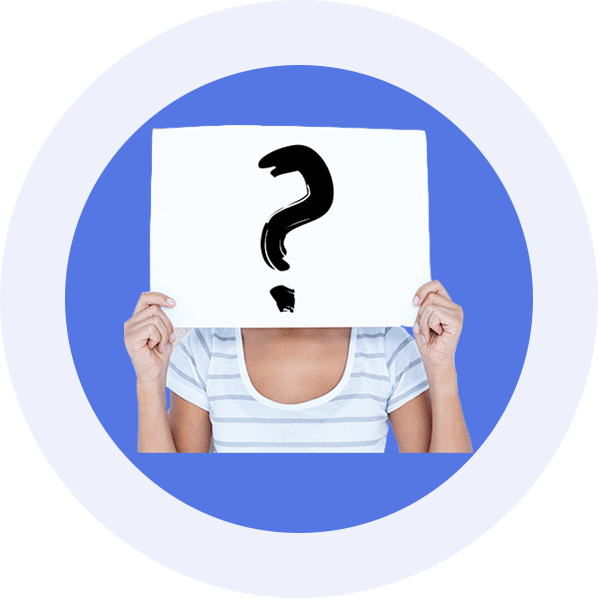
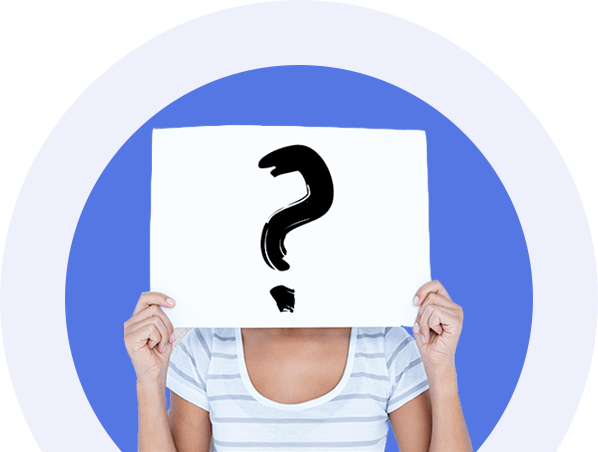
Response is done

diff --git a/css/styles.css b/css/styles.css
@@ -229,7 +229,7 @@
 
 #main_pic {
 	right: -20px;
-	bottom: -214px;
+	bottom: -45px;
 }
 
 #main_pic_2,
@@ -377,10 +377,12 @@
 	line-height: 1.6;
 
 }
+
 #end .infront_submit span {
 	font-family: "HelveticaNeueCyrBold";
 	color: rgb(73, 95, 168);
 }
+
 #end h1 {
 	margin-top: 16px;
 	font-size: 44px;
@@ -425,7 +427,8 @@
 
 @media screen and (min-width: 1400px) {
 	#janna {
-		width: auto;
+		width: 70%;
+		right: -400px;
 	}
 }
 
@@ -433,10 +436,7 @@
 	.container {
 		width: 1400px;
 	}
-	#janna {
-		width: 700px;
-		right: -100px;
-	}
+
 	#end .pre {
 		font-size: 40px;
 	}
@@ -459,7 +459,7 @@
 	.form_newsletter .button {
 		width: 500px;
 		height: 80px;
-		font-size: 37px;
+		font-size: 31px;
 	}
 	.first {
 		background-repeat: repeat;
@@ -475,7 +475,7 @@
 	}
 	.button,
 	.button:focus {
-		font-size: 37px;
+		font-size: 31px;
 		width: 450px
 	}
 	.choice {
@@ -491,7 +491,7 @@
 
 @media screen and (min-width: 2500px) {
 	#janna {
-		width: 70%;
+		width: 60%;
 		right: -320px;
 	}
 }
@@ -506,11 +506,8 @@
 	#contacts .fa {
 		margin: 0 11px 0 20px;
 	}
-	.first h1 {
-		width: 50%;
-	}
 	.first p {
-		width: 600px;
+		width: 423px;
 	}
 	#pic_1,
 	#pic_2,
@@ -518,7 +515,7 @@
 	#pic_4,
 	#pic_5,
 	#pic_6 {
-		right: 10px;
+		right: -60px;
 	}
 	.choice {
 		width: 90%;
@@ -533,12 +530,23 @@
 		left: 5px;
 	}
 	#janna {
-		width: 400px;
 		bottom: auto;
 		top: 50px;
 	}
 	.left_container .mail {
 		text-align-last: left
+	}
+	#main_pic_2,
+	#pic_1_1,
+	#pic_2_2,
+	#pic_3_2,
+	#pic_4_2,
+	#pic_5_2 {
+		left: -150px;
+		top: -230px;
+	}
+	#main_pic {
+		right: -90px
 	}
 }
 
@@ -569,22 +577,43 @@
 	.first p {
 		width: 360px;
 	}
+	#pic_1,
+	#pic_2,
+	#pic_3,
+	#pic_4,
+	#pic_5,
+	#pic_6 {
+		right: -60px;
+		width: 400px;
+		bottom: -80px;
+		top: auto;
+
+	}
+
 	#end {
 		padding-top: 110px;
 		height: auto;
 		position: relative;
 	}
+
 	#end .container {
 		height: auto;
-		overflow: hidden;
+		overflow: visible;
 		/*		position: relative;*/
 	}
+
+	#end_pic_2 {
+		top: -257px;
+		left: -171px;
+	}
+
 	.left_container {
 		display: block;
 		position: relative;
 		z-index: 5;
 		text-align: left;
 	}
+
 	#janna {
 		position: relative;
 		display: block;
@@ -594,6 +623,7 @@
 		left: 0;
 		right: 0;
 	}
+
 	#janna_back {
 		top: auto;
 		right: 0;
@@ -601,6 +631,7 @@
 		bottom: 0;
 		height: auto;
 	}
+
 }
 
 @media screen and (max-width: 740px) {
@@ -613,6 +644,7 @@
 	.first p,
 	h1 {
 		width: auto;
+		text-align: center;
 	}
 	.first {
 		min-height: auto;
@@ -641,11 +673,49 @@
 		margin: 0 auto;
 		bottom: -40px;
 	}
+	#main .janna_title {
+		margin: 0 auto;
+	}
+	.first h1 {
+		margin: 0 auto 35px
+	}
+	#pic_1,
+	#pic_2,
+	#pic_3,
+	#pic_4,
+	#pic_5,
+	#pic_6 {
+		left: 0;
+		right: 0;
+	}
+}
+
+@media screen and (max-width: 632px) {
+	#main_pic,
+	#main_shape {
+		width: 100%;
+	}
 }
 
 @media screen and (max-width: 525px) {
 	.mail,
 	.form_newsletter .button {
+		width: 100%;
+		min-width: auto;
+	}
+}
+
+@media screen and (max-width: 490px) {
+	#main .janna_title {
+		font-size: 14px;
+		width: 100%;
+		height: 45px;
+		line-height: 45px;
+	}
+	.button,
+	.button_finish,
+	#main + .second .button {
+		min-width: auto;
 		width: 100%;
 	}
 }
@@ -666,6 +736,7 @@
 
 	}
 	#main .pre {
+		margin-top: 30px;
 		margin-bottom: 0;
 	}
 	#main h1 {
@@ -697,14 +768,21 @@
 		line-height: 1.2;
 	}
 	.button,
-	.button:focus {
+	.button:hover,
+	.button:focus,
+	.button_finish {
 		width: 100%;
 		margin-top: 30px;
-		font-size: 24px;
+		font-size: 18px;
+		height: auto;
+		letter-spacing: normal;
 	}
 
 	#end {
-		padding-top: 150px;
+		padding-top: 130px;
+	}
+	.first h1 {
+		margin-top: 30px;
 	}
 	#end h1 {
 		font-size: 34px;
@@ -714,6 +792,7 @@
 	}
 	#end .pre {
 		text-align: center;
+		font-size: 18px;
 	}
 	.form_newsletter {
 		margin-top: 20px;
@@ -721,5 +800,29 @@
 	#janna,
 	#janna_back {
 		width: 100%;
+	}
+	.mail {
+		font-size: 17px;
+		height: 50px;
+		line-height: 50px;
+	}
+	.form_newsletter .button,
+	.form_newsletter .button:hover {
+		font-size: 18px;
+		height: auto;
+		line-height: 1.3;
+		padding: 10px;
+		min-height: 70px;
+		letter-spacing: normal;
+		margin-top: 20px;
+	}
+	#end .pre,
+	#end .infront_submit {
+		font-size: 18px;
+		text-align: center;
+		line-height: 1.3 margin-bottom: 30px;
+	}
+	#main .janna_title {
+		margin-top: 25px;
 	}
 }
